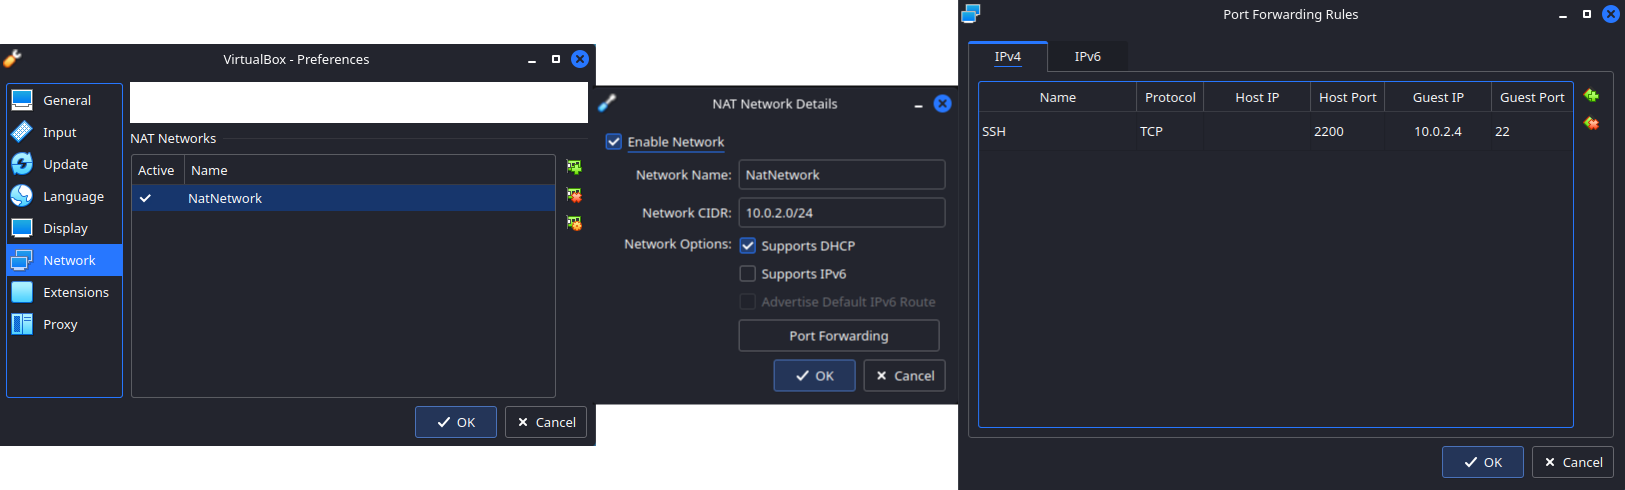
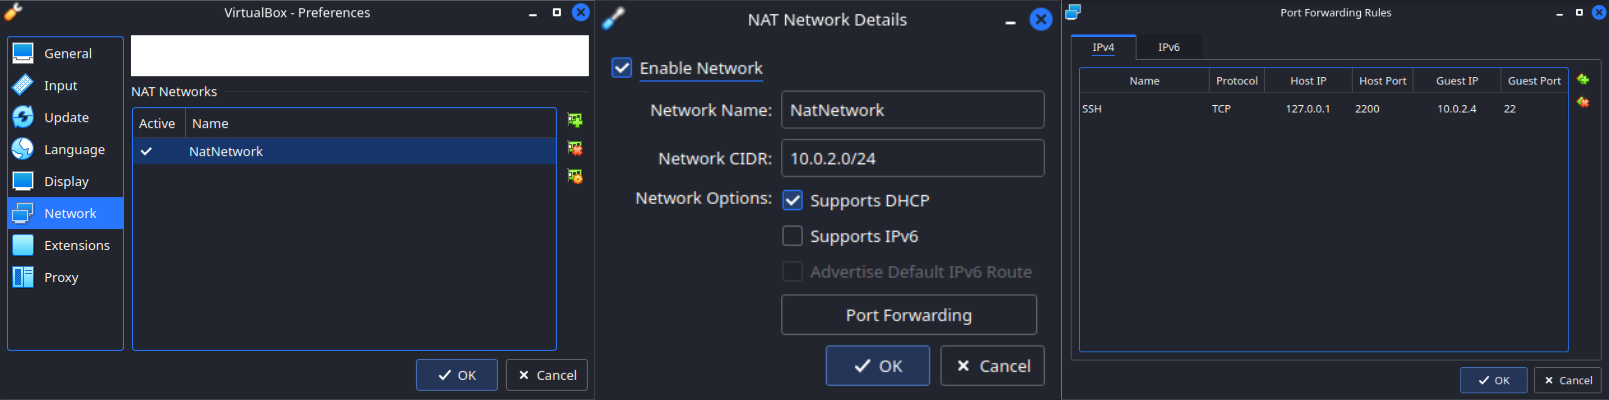
updated files

diff --git a/README.md b/README.md
@@ -10,90 +10,116 @@
     - Shadow Copies deletion using vssadmin.exe (used in Ransomware attacks).
 - Created Detection & Response Rules in LimaCharlie (EDR) to detect the two previous attacks using the telemetry generated and tested the rules by repeating the attacks.
 
-The procedures to build this Lab can be found [here](https://github.com/robsann/LimaCharlieEDRTelemetry/blob/main/procedure.md) and it was adapted from [Eric Capuano](https://blog.ecapuano.com/p/so-you-want-to-be-a-soc-analyst-intro).
+The procedures to build this Lab can be found [here](https://github.com/robsann/LimaCharlieEDRTelemetry/blob/main/procedure.md), and it was adapted from [Eric Capuano](https://blog.ecapuano.com/p/so-you-want-to-be-a-soc-analyst-intro).
 
 ## VirtualBox NAT Network Diagram
 <img src="images/LimaCharlie_diagram.png" title="Virtual Network Diagram"/>
 
-VMs can communicate with each other, with the host, and with the Internet, and the host can communicate with the VMs through port forwarding.
+### NAT Network
+The configuration of the NAT Network used and the Port Forwarding Rule to access the Ubuntu Server through SSH from the host. In the NAT Network the virtual machines can communicate with each other and the host and have access to the Internet, while the host can communicate with the virtual machines only through port forwarding.
+
+
+<img src="images/1.1-virtualbox_nat_network.png" title="NAT Network"/>
+
+### IP Addresses
+<img src="images/1.2-network_config.png" title="Network Configuration"/>
+
 
 # Highlights
 
-## 1 - Pre Setup
+## 1 - Windows 11 Setup
 
-### 1.1 - VirtualBox NAT Network with Port Forwarding configuration
-<img src="images/1.1-virtualbox_nat_network.png" title="NAT Network"/>
+### 1.3 - Virus & threat protection disabled
+The Antivirus was disabled to be able to download and execute the payload to stablishes the C2 session with Sliver.
 
-### 1.2 - Network configuration of Ubuntu Server (10.0.2.4) and Windows 11 (10.0.2.5)
-<img src="images/1.2-network_config.png" title="Network Configuration"/>
-
-### 1.3 - Windows 11 Virus & threat protection disabled
 <img src="images/1.3-win_security_disabled.png" title="Windows Security Disabled"/>
 
-### 1.4 - Windows 11 Sysmon events
+### 1.4 - Sysmon events
+The Sysmon was installed to increase the telemtry gathered by LimaCharlie.
+
 <img src="images/1.4-sysmon_events.png" title="Sysmon Events"/>
 
-## 2 - Payload generation and C2 session establishment
+## 2 - Payload Generation and C2 Session
 
-### 2.1 - Payload generation on Sliver on the Attack Machine
+### 2.1 - Payload generation
+The payload was generated on Sliver on the Attack Machine and it has the name `CURLY_DRAWER.exe` and it is configured to try to connect to the Attack Machine when executed on the Target Machine.
+
 <img src="images/2.1-sliver_payload_gen.png" title="Payload Generation"/>
 
-### 2.2 - LimaCharlied Timeline event of the payload download on Windows Machine
+### 2.2 - LimaCharlied timeline payload donload event
+On the Timeline section on LimaCharlie it is shown the event of the payload download on the Target Machine.
+
 <img src="images/2.2-LC_win_payload_download.png" title="Payload Download"/>
 
-### 2.3 - LimaCharlied Timeline event of the payload execution on Windows Machine
+### 2.3 - LimaCharlied timeline payload execution event
+On the Timeline section on LimaCharlie it is shown the event of the payload execution on the Target Machine.
+
 <img src="images/2.3-LC_win_payload_exec.png" title="Payload Execution"/>
 
 ### 2.4 - LimaCharlied Timeline event of the payload connection to the Sliver C2
+On the Timeline section on LimaCharlie it is shown the event of the payload connection from the Target Machine to the Sliver C2 on the Attack Machine.
+
 <img src="images/2.4-LC_payload_connect_to_C2.png" title="Payload Connection"/>
 
-### 2.5 - Sliver C2 session on Attack Machine
+### 2.5 - Sliver C2 session
+The C2 session open in Sliver on the Attack Machine and gathering some information from the Target Machine
+.
 <img src="images/2.5-sliver_session.png" title="Sliver C2 Session"/>
 
-### 2.6 - LimaCharlie Processes showing the processes running on the Windows Machine including the payload `CURLY_DRAWER.exe`
+### 2.6 - LimaCharlie processes table
+On the Processes section on LimaCharlie it can be seen the processes running on the Target Machine including the payload `CURLY_DRAWER.exe` executed on PowerShell, with information about the network connection stablished.
+
 <img src="images/2.6-LC_processes.png" title="Windows Processes"/>
 
-## 3 - LSASS Access event, rule creation, and detection
+## 3 - LSASS Access Attack (Credential Stealing)
 
-### 3.1 - LimaCharlie Timeline showing LSASS access event
+### 3.1 - LSASS Access Event
+
 <img src="images/3.1-LC_lsass_access_event.png" title="LSASS Access Event"/>
 
-### 3.2 - LimaCharlie Custom Detect & Respond Rule for LSASS Access
+### 3.2 - LSASS Access Custom Detect & Respond Rule
+
 <img src="images/3.2-LC_lsass_access_rule.png" title="LSASS Access Rule"/>
 
-### 3.3 - LimaCharlie Detections showing LSASS access detected by custom rule created
+### 3.3 - LSASS Access Detection
+LimaCharlie Detections showing LSASS access detected by custom rule created.
+
 <img src="images/3.3-LC_lsass_access_detected.png" title="LSASS Access Detected"/>
 
-## 4 - Shadows Copies deletion event, rule creation, and detection
+## 4 - Shadows Copies Deletion Attack
 
-### 4.1 - LimaCharlie Timeline showing delete Shadows Copies event
+### 4.1 - Shadows Copies Deletion Event
+
 <img src="images/4.1-LC_delete_shadows_event.png" title="Delete Shadows Copie Event"/>
 
-### 4.2 - LimaCharlie Custom Detect & Respond Rule for delete Shadows Copies
+### 4.2 - Shadows Copies Deletion Custom Detect & Respond Rule
+
 <img src="images/4.2-LC_delete_shadows_rule.png" title="Delete Shadows Copie Rule"/>
 
-### 4.3 - LimaCharlie Detections showing delete Shadows Copies detected by custom rule created
+### 4.3 - Shadows Copies Deletion Detection
+LimaCharlie Detections showing delete Shadows Copies detected by custom rule created.
+
 <img src="images/4.3-LC_delete_shadows_detected.png" title="Delete Shadows Copie Detected"/>
 
-## 5 - Rules pre-loaded on LimaCharlie triggered by Sliver C2 activity
+## 5 - Pre-Loaded Rules Triggered by Sliver C2 Activity
 
-### 5.1 - LimaCharlie Detections showing Sigma rule at category Non Interactive PowerShell Process Spawned
-- Author: Roberto Rodriguez @Cyb3rWard0g (rule), oscd.community (improvements)
-- Description: Detects non-interactive PowerShell activity by looking at the "powershell" process with a non-user GUI process such as "explorer.exe" as a parent."
+### 5.1 - Sigma Rule at Category Non Interactive PowerShell Process Spawned
+This rule was developed by Roberto Rodriguez @Cyb3rWard0g (rule) and oscd.community (improvements). It detects non-interactive PowerShell activity by looking at the "powershell" process with a non-user GUI process such as "explorer.exe" as a parent or "CURLY_DRAWER.exe" in this case.
+
 <img src="images/5.1-LC_non_interactive_powershell_detected.png" title="Non Interactive Powershell Detected"/>
 
-### 5.2 - LimaCharlie Detections showing rule from the category HackTool - Sliver C2 Implant Acrivity Pattern
-- Author: Nasreddine Bencherchali (Nextron Systems), Florian Roth (Nextron Systems)
-- Description: Detects process activity patterns as seen being used by Sliver C2 framework implants.
+### 5.2 - Rule from the Category HackTool - Sliver C2 Implant Acrivity Pattern
+This rule was developed by Nasreddine Bencherchali (Nextron Systems) and Florian Roth (Nextron Systems). It detects process activity patterns as seen being used by Sliver C2 framework implants.
+
 <img src="images/5.2-LC_sliver_C2_implant_activity_detected.png" title="Sliver C2 Implant Activity Detected"/>
 
-### 5.3 - LimaCharlie Detections showing rule from the category Silver Shell
-- Author: Trenton Tait.
-- Description: Detects the powershell command used when a Sliver agent creates an interactive shell with its built in shell command.
+### 5.3 - Rule from the Category Silver Shell
+This rule was developed by Trenton Tait. It detects the powershell command used when a Sliver agent creates an interactive shell with its built in shell command.
+
 <img src="images/5.3-LC_sliver_shell_detected.png" title="Sliver C2 Shell Detected"/>
 
-### 5.4 - LimaCharlie Detections showing Sigma rule from the category Shadow Copies Deletion Using Operating System Utilities
-- Author: Florian Roth (Nextron Systems), Michael Haag, Teymur Kheirkhabarov, Daniil Yugoslavskiy, oscd.community, Andreas Hunkeler (@Karneades).
-- Description: Shadow Copies deletion using operating systems utilities.
+### 5.4 - Sigma Rule from the Category Shadow Copies Deletion Using Operating System Utilities
+This rule was developed by Florian Roth (Nextron Systems), Michael Haag, Teymur Kheirkhabarov, Daniil Yugoslavskiy, Andreas Hunkeler (@Karneades), and oscd.community. It detects Shadow Copies deletion using operating systems utilities.
+
 <img src="images/5.4-LC_shadow_copies_deletion_detected.png" title="Shadow Copies Deletion Detected"/>
 
